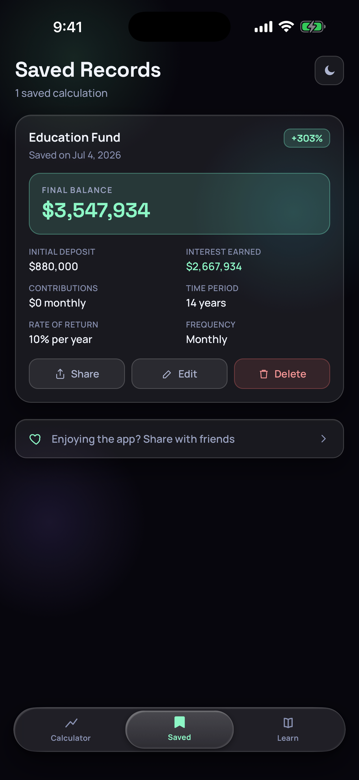
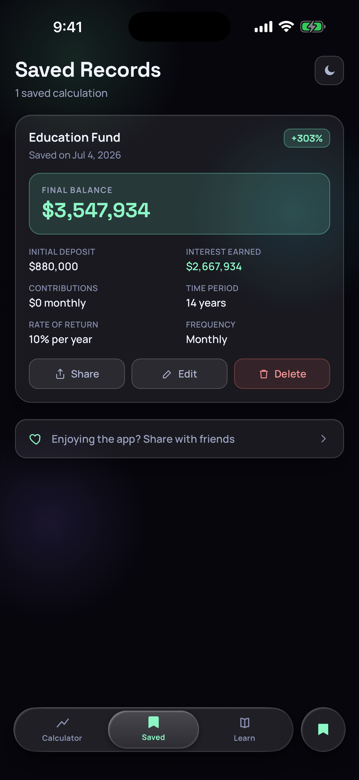
Stop collapsing the save button so the tab bar geometry never animates
The bar still pumped on every tab change. Tracing it on device ruled out
the state: each switch produced exactly one render and started the
collapse animation exactly once, with the right target. The problem was
what that animation touched.

Animating the button's width resized the capsule beside it every frame,
and that capsule holds a blur view, a rounded overflow mask and a shadow.
Resizing all three per frame is what stuttered, which reads as the bar
expanding, snapping back, and expanding again.

So the bar no longer changes shape at all. The save button keeps a fixed
55pt slot on every tab, and from a non-calculator tab it now hops to the
calculator before opening the sheet, so it stays meaningful where it sits.
Measured across ten frames spanning four back-and-forth switches, the
bar's extent is identical to the pixel.

Saved and Learn screenshots recaptured, since the button is now visible
on those tabs.

Claude-Session: https://claude.ai/code/session_014y1YUwcV42NCswpojyd4xo

diff --git a/components/ui/tab-bar.tsx b/components/ui/tab-bar.tsx
@@ -60,7 +60,6 @@ export function GlassTabBar({ state, navigation }: BottomTabBarProps) {
   const count = Math.max(1, routes.length);
 
   const slide = useRef(new Animated.Value(activeIndex)).current;
-  const action = useRef(new Animated.Value(onCalc ? 1 : 0)).current;
 
   useEffect(() => {
     const anim = Animated.timing(slide, {
@@ -72,17 +71,6 @@ export function GlassTabBar({ state, navigation }: BottomTabBarProps) {
     anim.start();
     return () => anim.stop();
   }, [activeIndex, slide]);
-
-  useEffect(() => {
-    const anim = Animated.timing(action, {
-      toValue: onCalc ? 1 : 0,
-      duration: 480,
-      easing: Easing.bezier(0.34, 1.2, 0.44, 1),
-      useNativeDriver: false,
-    });
-    anim.start();
-    return () => anim.stop();
-  }, [onCalc, action]);
 
   return (
     <View
@@ -189,24 +177,35 @@ export function GlassTabBar({ state, navigation }: BottomTabBarProps) {
         </View>
       </View>
 
-      <Animated.View
+      {/*
+       * Fixed size, always visible. This used to collapse to zero width on the
+       * other tabs, which resized the capsule every frame — and resizing a
+       * capsule that contains a blur view, a rounded mask and a shadow made the
+       * bar visibly pump on each switch. Nothing here changes size any more, so
+       * there is no layout for the bar to animate and nothing to stutter.
+       */}
+      <View
         style={{
-          width: action.interpolate({ inputRange: [0, 1], outputRange: [0, ACTION_SIZE] }),
-          marginLeft: action.interpolate({ inputRange: [0, 1], outputRange: [0, ACTION_GAP] }),
+          width: ACTION_SIZE,
+          marginLeft: ACTION_GAP,
           height: ACTION_SIZE,
           flexShrink: 0,
           borderRadius: 999,
           overflow: 'hidden',
-          opacity: action,
-          transform: [{ scale: action.interpolate({ inputRange: [0, 1], outputRange: [0.5, 1] }) }],
           boxShadow: theme.barShadow,
         }}
-        pointerEvents={onCalc ? 'auto' : 'none'}
       >
         <TouchableOpacity
           onPress={() => {
             if (Platform.OS === 'ios') Haptics.selectionAsync();
-            request();
+            // Reachable from any tab: hop to the calculator first so the sheet
+            // opens over the numbers it is about to save.
+            if (!onCalc) {
+              navigation.navigate('index' as never);
+              setTimeout(request, 260);
+            } else {
+              request();
+            }
           }}
           activeOpacity={0.8}
           accessibilityRole="button"
@@ -218,7 +217,7 @@ export function GlassTabBar({ state, navigation }: BottomTabBarProps) {
             <Icon name="bookmark" size={21} color={theme.accent} filled />
           </View>
         </TouchableOpacity>
-      </Animated.View>
+      </View>
     </View>
   );
 }
